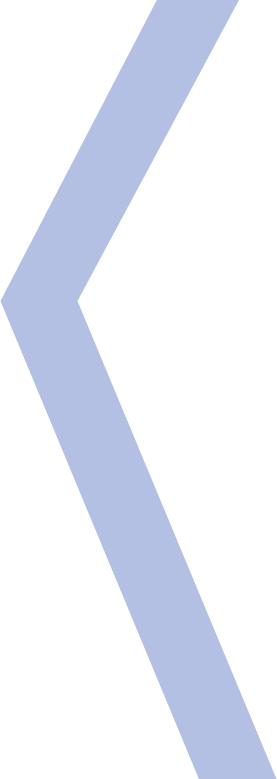
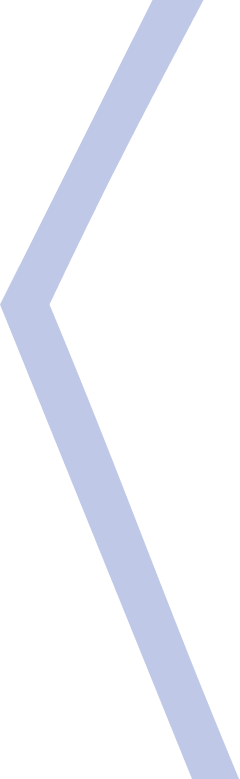
about us end

diff --git a/src/components/AboutUs/AboutUs.jsx b/src/components/AboutUs/AboutUs.jsx
@@ -25,12 +25,12 @@ export const AboutUs = () => {
   };
 
   return (
-    <section className="about__us">
-      <div className="about__us__inner">
-        <div className="container framer">
-          <div className="about__us__left">
+    <section className='about__us'>
+      <div className='about__us__inner'>
+        <div className='container framer'>
+          <div className='about__us__left'>
             <motion.h2
-              className="about__us__title"
+              className='about__us__title'
               initial={{
                 x: -200,
                 y: -50,
@@ -46,10 +46,10 @@ export const AboutUs = () => {
               Biz <span>Haqimizda</span>
             </motion.h2>
             <motion.p
-              className="about__us__text"
+              className='about__us__text'
               variants={container}
-              initial="hidden"
-              whileInView="visible"
+              initial='hidden'
+              whileInView='visible'
             >
               <motion.span variants={child}>
                 Fusce justo mi, vehicula
@@ -92,10 +92,11 @@ export const AboutUs = () => {
               <LearnMoreBtn />
             </motion.div>
           </div>
-          <div className="about__us__right">
-            <motion.img
+          <div className='about__us__right'>
+            {/* <motion.img
               src={Line}
-              alt=""
+              alt='line'
+              className='about__us__line'
               initial={{
                 x: 600,
               }}
@@ -103,6 +104,11 @@ export const AboutUs = () => {
                 x: 150,
                 transition: { duration: 0.5, type: 'spring', stiffness: 100 },
               }}
+            />{' '} */}
+            <img
+              src={Line}
+              alt=''
+              className='about__us__line__responsive'
             />
           </div>
         </div>

diff --git a/src/components/AboutUs/aboutus.scss b/src/components/AboutUs/aboutus.scss
@@ -4,7 +4,6 @@
     linear-gradient(269.47deg, #002aa0 2.21%, #00185a 97.11%);
 }
 
-
 .about__us__inner {
   display: flex;
   align-items: center;
@@ -14,6 +13,8 @@
   background-repeat: no-repeat;
   background-image: url('../../assets/images/about__us__bg.png');
   background-position: right;
+  position: relative;
+  height: 779px;
 }
 
 .framer {
@@ -30,9 +31,8 @@
   color: #ffffff;
   margin: 0;
   margin-bottom: 24px;
+  font-family: 'Bruno Ace SC';
   span {
-    font-family: 'Raleway';
-
     -webkit-text-stroke: 1px #fff;
     -webkit-text-fill-color: transparent;
   }
@@ -55,7 +55,18 @@
   overflow: hidden;
   width: 100%;
   max-width: 600px;
-  margin-left: 100px;
+}
+
+.about__us__line__responsive {
+  position: absolute;
+  top: 0;
+  left: calc(50% - 50px);
+}
+
+@media screen and (min-width: 1540px) {
+  .about__us__inner {
+    background-position: calc(50% + 300px);
+  }
 }
 
 @media screen and (max-width: 1300px) {
@@ -64,11 +75,32 @@
   }
 }
 
-@media screen and (max-width:1000px) {
-    .about__us__inner {
-      background-image: none;
+@media screen and (max-width: 1200px) {
+  .about__us__right {
+    display: none;
+  }
+}
+
+@media screen and (max-width: 1000px) {
+  // .about__us__inner {
+  //   background-image: none;
+  // }
+  .about__us__right {
+    width: 0;
+  }
+}
+
+@media screen and (max-width: 720px) {
+  .about__us__text {
+    color: #3d3d3d;
+    font-size: 14px;
+  }
+  .about__us__title {
+    font-size: 40px;
+    color: #3d3d3d;
+    span {
+      -webkit-text-stroke-color: #3d3d3d;
+      -webkit-text-fill-color: transparent;
     }
-    .about__us__right {
-      width: 0;
-    }
+  }
 }
